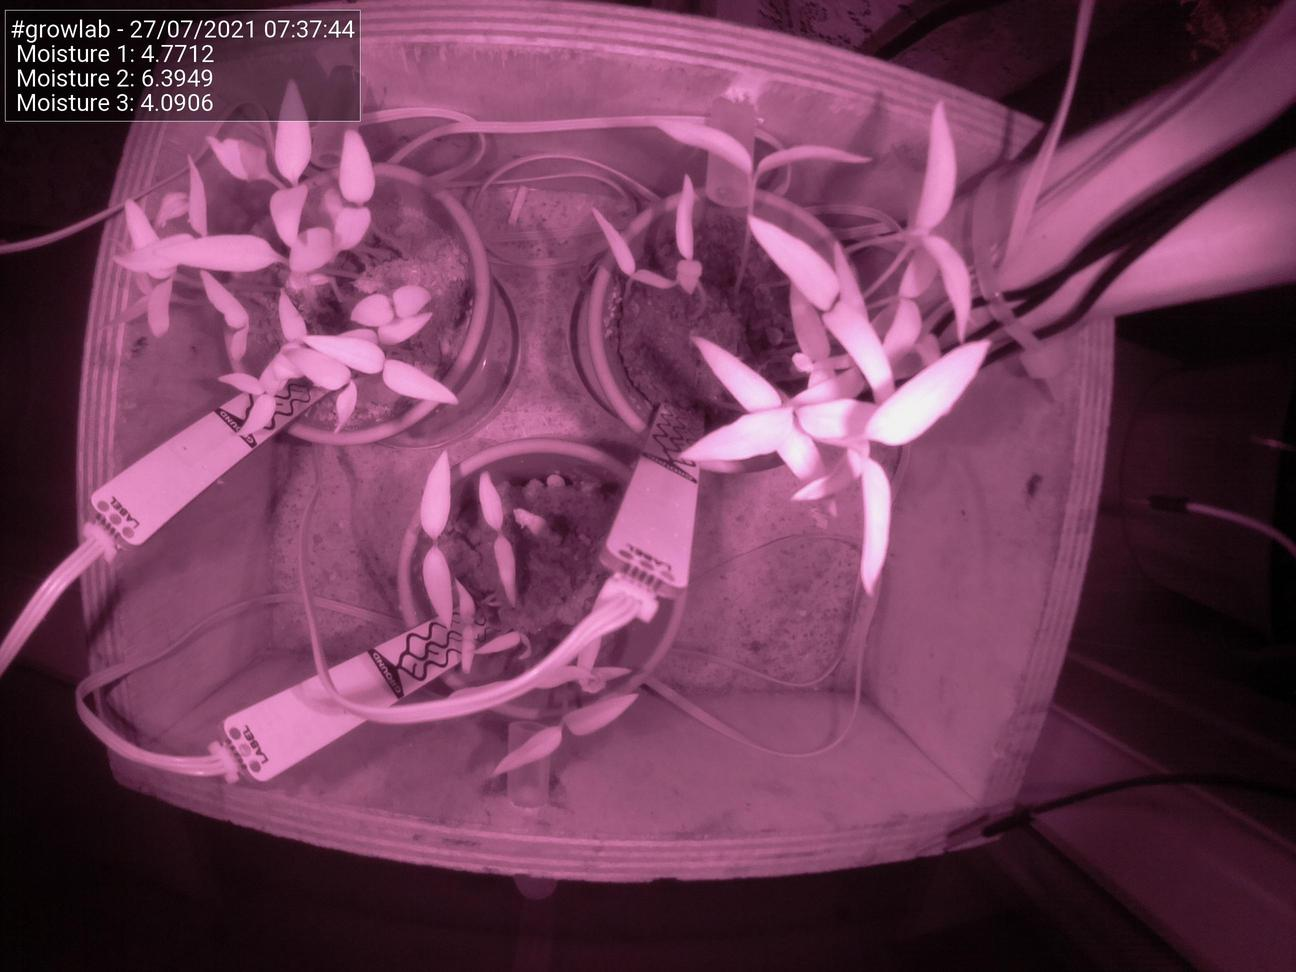
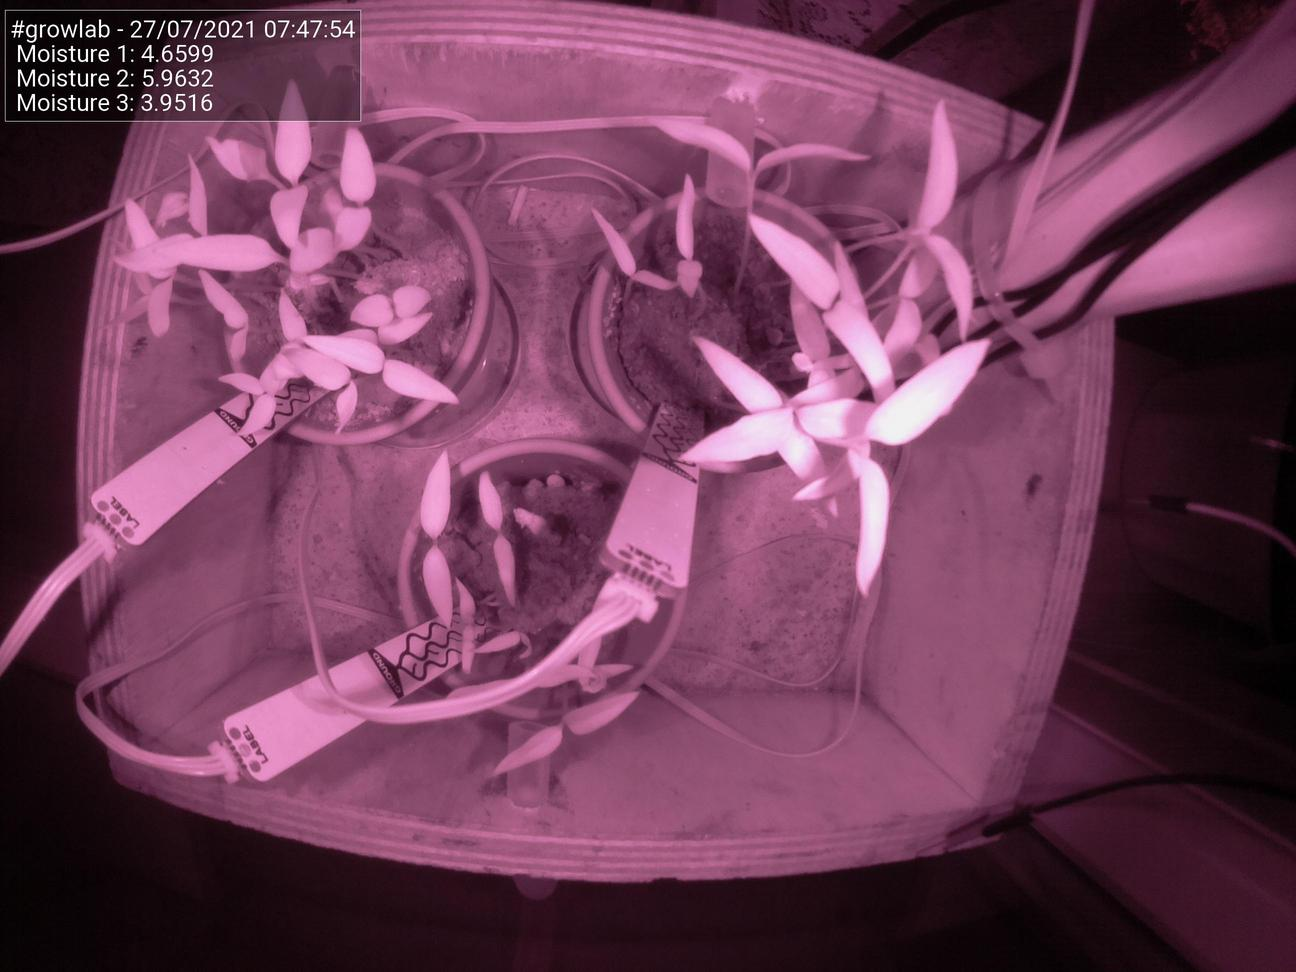
Update images at Tue 27 Jul 07:48:00 BST 2021

diff --git a/docs/index.html b/docs/index.html
@@ -51,25 +51,25 @@
                                 <td>Date</td>
                                 <td>27/07/2021</td>
                                 <td>Time</td>
-                                <td>07:37:44</td>
+                                <td>07:47:54</td>
                             </tr>
                             <tr>
                                 <td>Temperature</td>
                                 <td>N/A</td>
                                 <td>Moisture 1</td>
-                                <td>4.7712</td>
+                                <td>4.6599</td>
                             </tr>
                             <tr>
                                 <td>Humidity</td>
                                 <td>N/A</td>
                                 <td>Moisture 2</td>
-                                <td>6.3949</td>
+                                <td>5.9632</td>
                             </tr>
                             <tr>
                                 <td>Pressure</td>
                                 <td>N/A</td>
                                 <td>Moisture 3</td>
-                                <td>4.0906</td>
+                                <td>3.9516</td>
                             </tr>
                         </tbody>
                     </table>
@@ -77,7 +77,7 @@
 
                 <h5>Latest image</h5>
                 <div style="width: 85%;">
-                            <img class="figure-img img-fluid rounded" src="./preview.jpg?uid=1627367870.4521327">
+                            <img class="figure-img img-fluid rounded" src="./preview.jpg?uid=1627368480.3218412">
                 </div>
             </div>
         </div>
